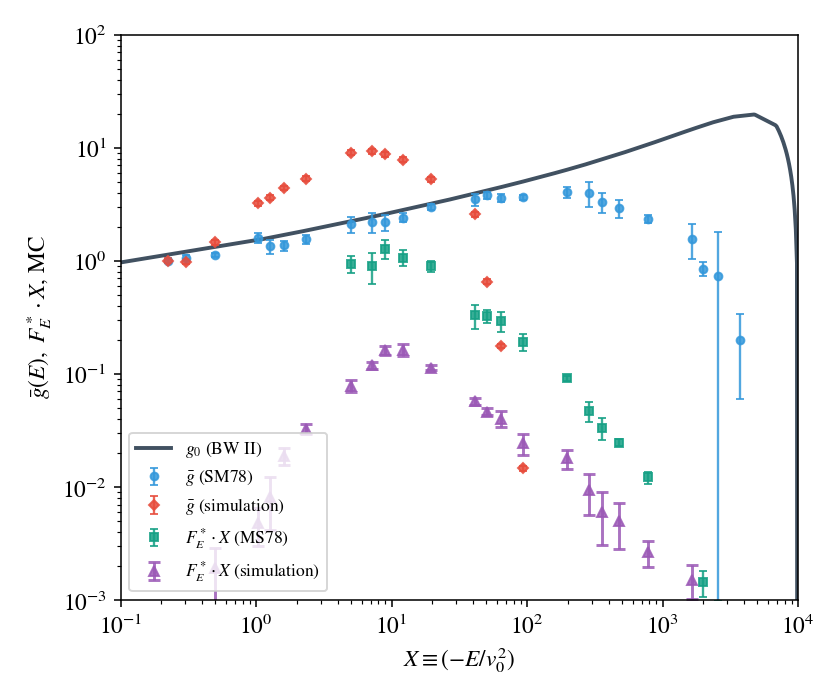
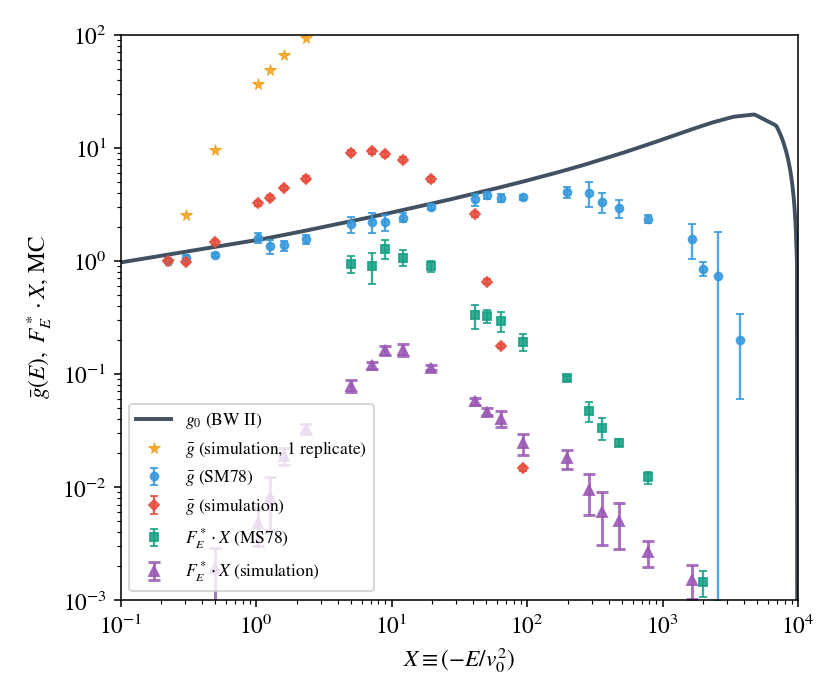
Table reading update

diff --git a/Shapiro1978/apple-to-apple/fig3/table_reading.py b/Shapiro1978/apple-to-apple/fig3/table_reading.py
@@ -1,15 +1,14 @@
-# Re-run with corrected BW II arrays and full pipeline.
 import numpy as np
 import pandas as pd
 import matplotlib.pyplot as plt
 import matplotlib as mpl
 
 mpl.rcParams.update({
-    "text.usetex": False,          # use MathText (portable)
-    "font.family": "STIXGeneral",  # match math fonts
+    "text.usetex": False,
+    "font.family": "STIXGeneral",
     "font.size": 12,
     "mathtext.fontset": "stix",
-    "axes.unicode_minus": False,   # proper minus sign
+    "axes.unicode_minus": False,
 })
 
 def sci(cell):
@@ -24,7 +23,6 @@ def sci(cell):
         return float(base.strip()) * (10.0 ** float(expo))
     return float(s)
 
-# ---- Table 2 rows ----
 rows = [
     ("2.25 (-1)", 1.00, 0.04, None, None),
     ("3.03 (-1)", 1.07, 0.06, None, None),
@@ -57,7 +55,6 @@ gbar     = np.array([r[1] for r in rows], dtype=float)
 gbar_err = np.array([r[2] for r in rows], dtype=float)
 Fstar    = np.array([sci(r[3]) if r[3] is not None else np.nan for r in rows], dtype=float)
 Fstar_err= np.array([sci(r[4]) if r[4] is not None else np.nan for r in rows], dtype=float)
-# New data to replace F_E^*\cdot X
 new_data_x = np.array([
     0.225, 0.303, 0.495, 1.04, 1.26, 1.62, 2.35, 5.0, 7.2, 8.94,
     12.1, 19.7, 41.6, 50.3, 64.6, 93.6, 198, 287, 356, 480,
@@ -69,10 +66,9 @@ new_data_y = np.array([
     3.610911e-03, 7.038733e-04, 4.041021e-02, 1.230824e-01, 2.114299e-01,
     1.914627e-01, 2.353178e-01, 1.387421e-01, 1.218783e-01, 6.558564e-03,
     2.027822e-01, 1.329827e-02, 2.959764e-03, 2.431357e-03, 1.675451e-04,
-    9.579539e-05, 1.555108e-04, 0.000000e+00, 0.000000e+00, 0.000000e+00
+    9.579539e-05, 1.555108e-04,     0.000000e+00, 0.000000e+00, 0.000000e+00
 ], dtype=float)
 
-# ---- Data from four runs ----
 run1 = np.array([
     [0.225,0.000000e+00],[0.303,1.000590e-03],[0.495,2.714267e-03],[1.04,5.184111e-03],
     [1.26,4.384712e-03],[1.62,2.186703e-02],[2.35,2.875843e-02],[5,8.892460e-02],
@@ -106,17 +102,14 @@ run4 = np.array([
     [784,2.494038e-03],[1.65e3,1.012183e-03],[2e3,0.000000e+00],[2.57e3,0.000000e+00],[3.73e3,0.000000e+00]
 ])
 
-# ---- Combine four runs and compute mean ± std ----
 runs = [run1, run2, run3, run4]
-x_mc = run1[:, 0]  # X values (should match new_data_x)
+x_mc = run1[:, 0]
 y_all = np.array([r[:, 1] for r in runs])
-y_all[y_all <= 0] = np.nan  # Treat zeros as NaN for statistics
+y_all[y_all <= 0] = np.nan
 
-# Compute mean ± std
 y_mean = np.nanmean(y_all, axis=0)
 y_std = np.nanstd(y_all, axis=0)
 
-# ---- Additional gbar data ----
 gbar_new_data = """1.102485487467425307e-01,0.000000000000000000e+00,0.000000000000000000e+00
 1.340042721099458101e-01,0.000000000000000000e+00,0.000000000000000000e+00
 1.628787421498550381e-01,0.000000000000000000e+00,0.000000000000000000e+00
@@ -177,7 +170,6 @@ gbar_new_data = """1.102485487467425307e-01,0.000000000000000000e+00,0.000000000
 7.462448653723023199e+03,0.000000000000000000e+00,0.000000000000000000e+00
 9.070414181116790132e+03,0.000000000000000000e+00,0.000000000000000000e+00"""
 
-# Parse the data
 lines = gbar_new_data.strip().split('\n')
 x_new_old = []
 gbar_new_old = []
@@ -192,7 +184,6 @@ x_new_old = np.array(x_new_old, dtype=float)
 gbar_new_old = np.array(gbar_new_old, dtype=float)
 gbar_err_new_old = np.array(gbar_err_new_old, dtype=float)
 
-# Use occupancy-based gbar data from long run
 x_new = np.array([
     2.25e-01, 3.03e-01, 4.95e-01, 1.04e+00, 1.26e+00, 1.62e+00, 2.35e+00, 5.00e+00,
     7.20e+00, 8.94e+00, 1.21e+01, 1.97e+01, 4.16e+01, 5.03e+01, 6.46e+01, 9.36e+01,
@@ -206,13 +197,25 @@ gbar_new = np.array([
     0.0, 0.0, 0.0, 0.0, 0.0, 0.0, 0.0, 0.0, 0.0
 ], dtype=float)
 
-# Estimate errors as a fraction of the value (5% for non-zero, zero for zero values)
 gbar_err_new = np.where(gbar_new > 0, 0.05 * gbar_new, 0.0)
+
+x_single = np.array([
+    0.225, 0.303, 0.495, 1.04, 1.26, 1.62, 2.35, 5.0, 7.2, 8.94,
+    12.1, 19.7, 41.6, 50.3, 64.6, 93.6, 198, 287, 356, 480,
+    784, 1650, 2000, 2570, 3730
+], dtype=float)
+
+gbar_single = np.array([
+    1.000000e+00, 2.536115e+00, 9.557223e+00, 3.648839e+01, 4.881908e+01,
+    6.655834e+01, 9.395544e+01, 1.999275e+02, 2.558708e+02, 2.931486e+02,
+    3.651242e+02, 5.391865e+02, 1.209974e+03, 1.343570e+03, 1.720973e+03,
+    2.469160e+03, 7.029859e+03, 9.570994e+03, 0.000000e+00, 0.000000e+00,
+    0.000000e+00, 0.000000e+00, 0.000000e+00, 0.000000e+00, 0.000000e+00
+], dtype=float)
 
 FE_x     = Fstar * x_vals
 FE_x_err = Fstar_err * x_vals
 
-# ---- BW II Table 1 -> g0(X) ----
 ln1p = np.array([
     0.00, 0.37, 0.74, 1.11, 1.47, 1.84, 2.21, 2.58, 2.95, 3.32,
     3.68, 4.05, 4.42, 4.79, 5.16, 5.53, 5.89, 6.26, 6.63, 7.00,
@@ -252,7 +255,6 @@ if tail.any():
     g_start = g0_line[tail][0]
     g0_line[tail] = np.maximum(g_start * (1 - (X_line[tail] - X_last)/(1e4 - X_last)), 1e-16)
 
-# ---- Save CSVs ----
 pd.DataFrame({"x": x_vals, "gbar": gbar, "gbar_err": gbar_err}).to_csv("/mnt/data/figure3_gbar.csv", index=False)
 pd.DataFrame({"x": x_vals, "Fstar": Fstar, "Fstar_err": Fstar_err, "FE_x": FE_x, "FE_x_err": FE_x_err}).to_csv("/mnt/data/figure3_FEx.csv", index=False)
 pd.DataFrame({"x": new_data_x, "y": new_data_y}).to_csv("/mnt/data/figure3_new_data.csv", index=False)
@@ -261,34 +263,30 @@ pd.DataFrame({"x": x_mc, "y_mean": y_mean, "y_std": y_std}).to_csv("/mnt/data/fi
 pd.DataFrame({"x": x_new, "gbar": gbar_new, "gbar_err": gbar_err_new}).to_csv("/mnt/data/figure3_gbar_new.csv", index=False)
 pd.DataFrame({"x": x_new, "gbar_occ_long": gbar_new, "gbar_err_occ_long": gbar_err_new}).to_csv("/mnt/data/figure3_gbar_occ_long.csv", index=False)
 
-# ---- Plot ----
 plt.figure(figsize=(6,5), dpi=140)
 plt.xscale("log")
 plt.yscale("log")
 plt.xlim(1e-1, 1e4)
 plt.ylim(1e-3, 1e2)
 
-# Theory line: sophisticated dark blue-gray
 plt.plot(X_line, g0_line, linewidth=2, color="#2C3E50", label=r"$g_0$ (BW II)", alpha=0.9)
 
 mask_g = ~np.isnan(gbar)
-# Paper gbar: professional blue
 plt.errorbar(x_vals[mask_g], gbar[mask_g], yerr=gbar_err[mask_g],
              fmt="o", markersize=4, capsize=2, color="#3498DB", 
              label=r"$\bar{g}$ (SM78)", elinewidth=1.2, alpha=0.85)
 for i in range(len(x_vals[mask_g])):
     print(f"X_val={x_vals[mask_g][i]:.4f}\tgbar[mask_g]={gbar[mask_g][i]:.4f}\tgbar_err[mask_g]={gbar_err[mask_g][i]:.4f}")
 
-# print(gbar=gbar)
-# print(gbar_err)
-
-
-# Plot additional gbar data (occupancy-based from long run)
-# Simulation gbar: vibrant coral/salmon (complementary to blue)
-mask_g_new = (gbar_new > 0)  # Only plot non-zero values
+mask_g_new = (gbar_new > 0)
 plt.errorbar(x_new[mask_g_new], gbar_new[mask_g_new], yerr=gbar_err_new[mask_g_new],
              fmt="D", markersize=4, capsize=2, alpha=0.85, color="#E74C3C",
              label=r"$\bar{g}$ (simulation)", elinewidth=1.2)
+
+mask_g_single = (gbar_single > 0)
+plt.plot(x_single[mask_g_single], gbar_single[mask_g_single],
+         marker="*", markersize=6, linestyle="None", alpha=0.85, color="#F39C12",
+         label=r"$\bar{g}$ (simulation, 1 replicate)", markeredgewidth=0.5)
 
 mask_f = ~np.isnan(FE_x)
 rel_err = np.zeros_like(FE_x)
@@ -296,26 +294,17 @@ rel_err[mask_f] = (FE_x_err[mask_f] / np.maximum(FE_x[mask_f], 1e-99))
 large = mask_f & (rel_err >= 0.6)
 small = mask_f & ~large
 
-# Paper flux: teal/cyan
 plt.errorbar(x_vals[small], FE_x[small], yerr=FE_x_err[small],
              fmt="s", markersize=4, capsize=2, color="#16A085", 
              label=r"$F_E^*\cdot X$ (MS78)", elinewidth=1.2, alpha=0.85)
-# plt.errorbar(x_vals[large], FE_x[large], yerr=FE_x_err[large],
-#              fmt="s", mfc="none", markersize=5, capsize=2, label="large-error points")
 
-# Plot MC data with mean ± std error bars
-# Simulation flux: vibrant magenta (complementary to teal)
-mask_mc = ~np.isnan(y_mean) & (y_mean > 0)  # Only plot non-zero, non-NaN values
+mask_mc = ~np.isnan(y_mean) & (y_mean > 0)
 plt.errorbar(x_mc[mask_mc], y_mean[mask_mc], yerr=y_std[mask_mc],
              fmt="^", markersize=5, capsize=3, capthick=1.5,
              label=r"$F_E^*\cdot X$ (simulation)", alpha=0.85, color="#9B59B6", elinewidth=1.5)
 
-# plt.annotate(r"$x_{\rm crit}=10$", xy=(10, 1e-1), xytext=(12, 2e-1),
-#              arrowprops=dict(arrowstyle="->", lw=1))
-
 plt.xlabel(r"$X \equiv (-E/v_0^2)$")
 plt.ylabel(r"$\bar g(E),\  F_E^*\cdot X$, MC")
-# plt.title("Reproduction of Fig. 3 (canonical case: $x_{\\rm crit}=10,\\ x_D=10^4$)")
 plt.legend(loc="lower left", fontsize=9)
 plt.tight_layout()
 plt.savefig("figure3_repro.png")
